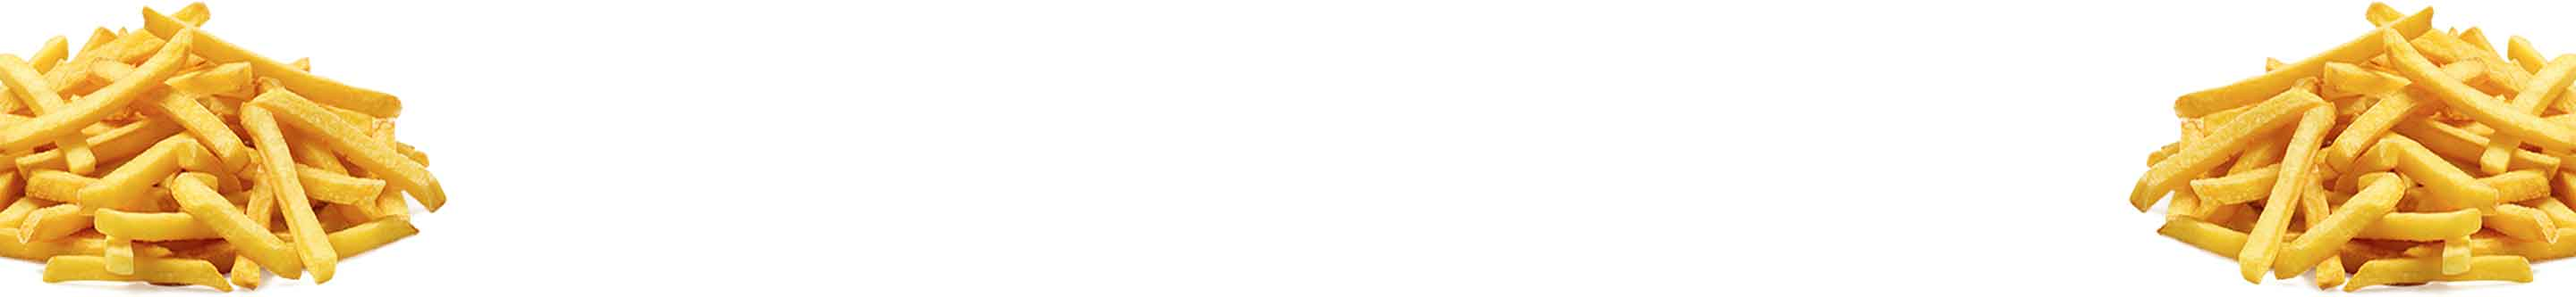
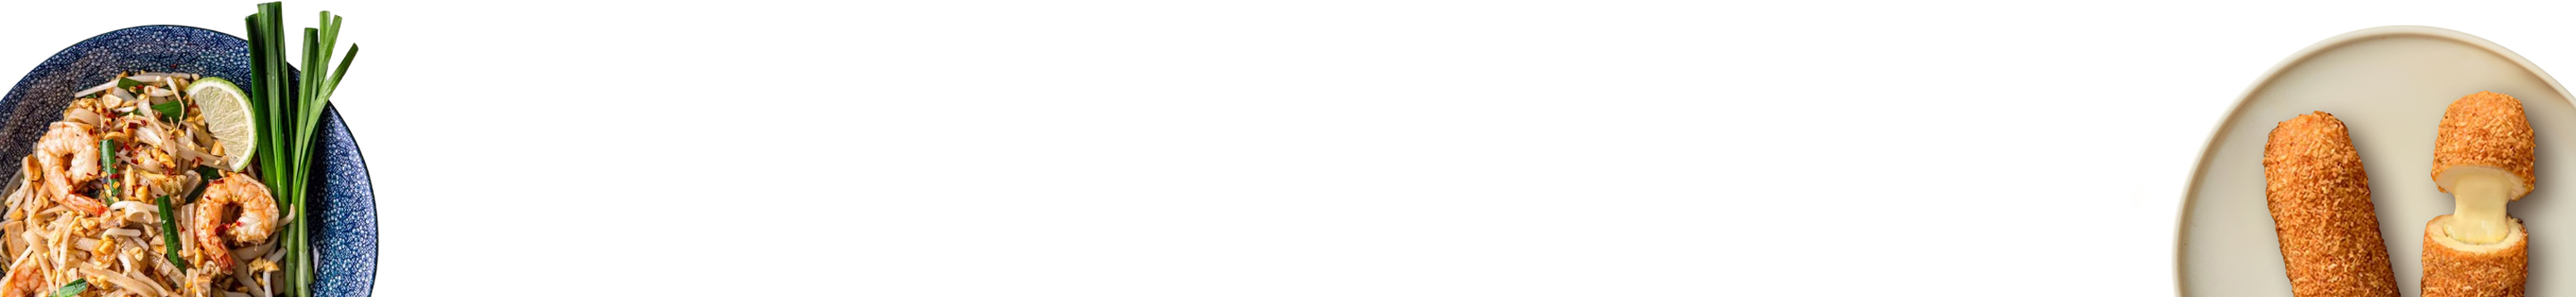
project photo chnages

Changed region(s): [[0.0, 0.0, 0.1875, 1.0], [0.8125, 0.0, 1.0, 1.0]]

diff --git a/index.php b/index.php
@@ -189,50 +189,7 @@
                         <div class="box">
                           <div class="inner">
                             <div class="icon mb-28">
-                              <svg
-                                version="1.1"
-                                xmlns="http://www.w3.org/2000/svg"
-                                xmlns:xlink="http://www.w3.org/1999/xlink"
-                                x="0px"
-                                y="0px"
-                                viewBox="0 0 511.992 511.992"
-                                style="
-                                  enable-background: new 0 0 511.992 511.992;
-                                "
-                                xml:space="preserve"
-                              >
-                                <g>
-                                  <path
-                                    d="M481.274,389.111H30.732c-16.936,0-30.719,13.783-30.719,30.719c0,28.22,22.957,51.198,51.198,51.198h409.584
-                                    c28.241,0,51.198-22.978,51.198-51.198C511.992,402.893,498.21,389.111,481.274,389.111z"
-                                  />
-                                  <path
-                                    d="M10.764,225.277h490.149c2.56,0,5.345-1.27,7.25-2.99c1.864-1.7,3.031-4.014,3.256-6.512
-                                    c3.318-32.971-8.335-65.226-33.729-93.324c-45.464-50.256-130.411-81.487-221.687-81.487
-                                    c-91.419,0-176.449,31.292-221.851,81.671C8.757,150.795-2.834,183.09,0.586,216.103C1.119,221.304,5.522,225.277,10.764,225.277
-                                    z M392.107,125.871c3.993-3.993,10.485-3.993,14.479,0l20.479,20.479c3.993,4.014,3.993,10.485,0,14.479
-                                    c-1.987,2.007-4.608,3.01-7.229,3.01s-5.243-1.003-7.25-3.01l-20.479-20.479C388.114,136.357,388.114,129.885,392.107,125.871z
-                                    M310.19,166.83l20.479-20.479c3.993-3.993,10.485-3.993,14.479,0c3.993,4.014,3.993,10.485,0,14.479l-20.479,20.479
-                                    c-1.987,2.007-4.608,3.01-7.229,3.01s-5.243-1.003-7.25-3.01C306.197,177.315,306.197,170.844,310.19,166.83z M248.753,84.913
-                                    c3.993-3.993,10.485-3.993,14.479,0l20.479,20.479c3.993,4.014,3.993,10.485,0,14.479c-1.986,2.007-4.608,3.01-7.229,3.01
-                                    s-5.243-1.003-7.25-3.01l-20.479-20.479C244.759,95.398,244.759,88.927,248.753,84.913z M166.836,125.871l20.479-20.479
-                                    c3.993-3.993,10.485-3.993,14.479,0c3.993,4.014,3.993,10.485,0,14.479l-20.479,20.479c-1.987,2.007-4.608,3.01-7.229,3.01
-                                    s-5.243-1.003-7.25-3.01C162.843,136.357,162.843,129.885,166.836,125.871z M84.919,146.351c3.993-3.993,10.485-3.993,14.479,0
-                                    l20.479,20.479c3.993,4.014,3.993,10.485,0,14.479c-1.987,2.007-4.608,3.01-7.229,3.01c-2.621,0-5.243-1.003-7.25-3.01
-                                    l-20.479-20.479C80.926,156.836,80.926,150.365,84.919,146.351z"
-                                  />
-                                  <path
-                                    d="M30.732,245.757c-5.673,0-10.24,4.587-10.24,10.24c0,5.652,4.567,10.24,10.24,10.24h161.396l120.725,60.352
-                                    c1.454,0.737,3.01,1.085,4.587,1.085c2.642,0,5.263-1.024,7.229-3.01l58.448-58.427h98.157c5.652,0,10.24-4.587,10.24-10.24
-                                    c0-5.652-4.587-10.24-10.24-10.24H30.732z"
-                                  />
-                                  <path
-                                    d="M40.971,368.632h430.063c24.862,0,44.583-22.24,40.385-47.88c-3.318-20.131-22.281-34.036-42.679-34.036h-62.666
-                                    l-70.121,70.121c-6.226,6.226-15.749,7.782-23.633,3.83l-147.921-73.95H43.244c-20.397,0-39.361,13.905-42.679,34.036
-                                    C-3.633,346.391,16.109,368.632,40.971,368.632z"
-                                  />
-                                </g>
-                              </svg>
+                           <img src="assets/images/icon/ic.png" alt="">
                             </div>
                             <h5 class="mb-0">
                               <a href="about.html">Quality Product</a>
@@ -861,7 +818,7 @@ with fresh ingredients and bold flavors.
         </div>
       </div>
       <div class="image">
-        <img src="assets/images/common/product-1.png" alt="" />
+        <img src="assets/images/common/product-3.png" alt="" />
       </div>
     </div>
   </div>
@@ -892,7 +849,7 @@ with fresh ingredients and bold flavors.
         </div>
       </div>
       <div class="image">
-        <img src="assets/images/common/product-2.png" alt="" />
+        <img src="assets/images/common/product-4.png" alt="" />
       </div>
     </div>
   </div>
